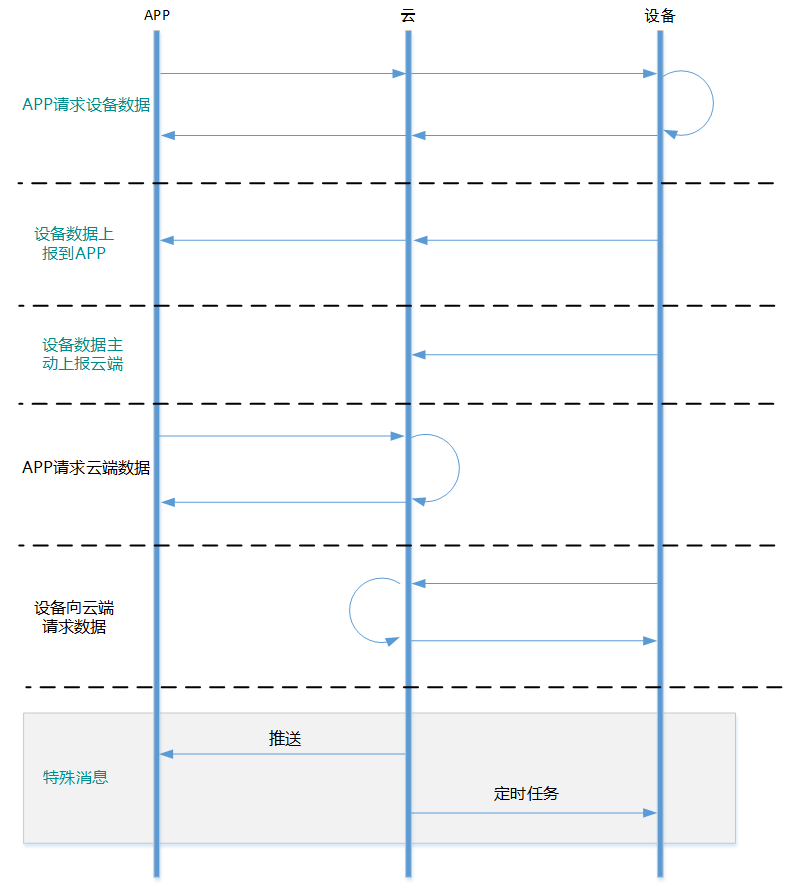
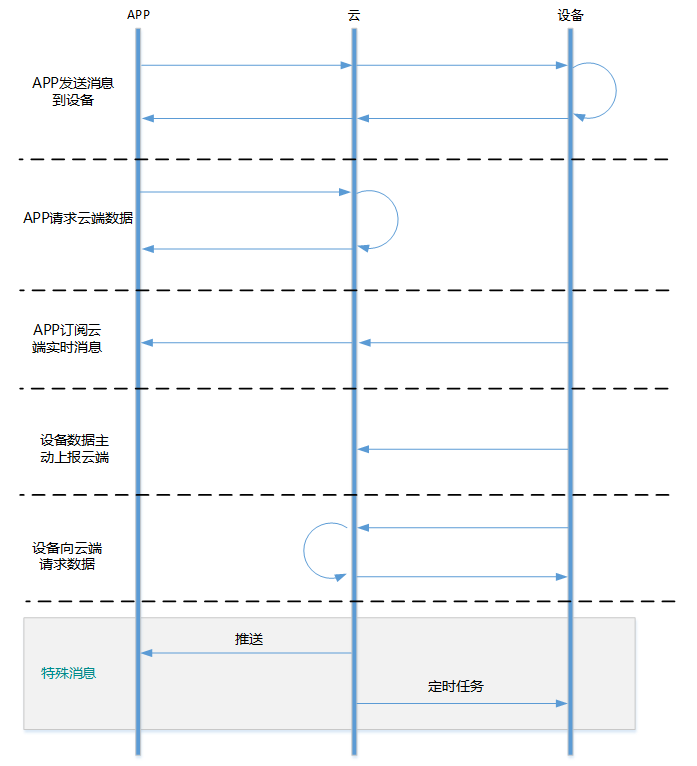
Deployed 1f48182 with MkDocs version: 0.14.0

diff --git a/introduction/index.html b/introduction/index.html
@@ -641,10 +641,15 @@ home模型的组层次如下图所示：</p>
 </table>
 <p>云端通信的通信类型见下图：</p>
 <p><img alt="cloudintaraction" src="../pic/introduction/introduction_cloudinteraction.png" /> </p>
-<p>对于前三个：APP请求设备数据、设备数据上报到APP和设备数据主动上报到云端进行存储，AbleCloud的通用服务已经实现该功能，移动应用开发人员只需要调用SDK就可以实现功能。对于APP请求设备数据，可以是有返回值的请求，也可以是纯控制指令，无返回值。</p>
-<p>对于APP向云端请求数据（无论是设备上报的历史数据还是厂商的其他应用数据）和设备向云端请求数据，都需要写云端自定义服务实现相应功能。</p>
-<p>对于特殊消息，请参考相关开发文档。</p>
-<p>需要单独说明的是，设备向云端发送的是TCP请求，如果要求云端响应设备的请求返回数据，实际云端是以控制命令的格式向设备下发数据。</p>
+<p>对于移动端，过云端的通信有三种：</p>
+<p>1、发送消息到设备</p>
+<p>将指令直接通过云端发送到设备。如果不需要存储，直接调用SDK接口即可实现。如果需要存储，需要开发相关的存储服务。</p>
+<p>2、发送消息到服务</p>
+<p>云端需要写云端自定义服务处理客户端发来的请求。</p>
+<p>3、订阅云端实时消息</p>
+<p>当app打开时，可以订阅设备实时上报的消息。这时候，不需要app刷新，设备端有新的数据或者状态变化的时候，app上对应的页面的数据或者状态就会刷新。</p>
+<p>需要单独说明的是，设备向云端发送的是TCP请求，如果要求云端响应设备的请求返回数据，实际云端是以控制命令的格式向设备下发数据。
+对于推送和定时任务，请参考定时任务文档。</p>
 <h2 id="_23">局域网通信</h2>
 <p>现在互联网非常普及，几乎每家都开通了宽带，家里的无线路由普及程度也很高。但是任何系统、设备，都可能出现异常情况，比如宽带营运商链路故障，路由器故障，云端服务故障等都可能导致家里的wifi无法访问internet。出现这种情况时，我们还需要继续控制、访问家里的智能设备，否则设备很可能就成为了砖头，比如晚上睡觉想关灯，但是智能灯始终收不到关灯消息。
 为此，ablecloud提供了<em>本地设备发现及访问</em>功能，也就是我们通常说的<em>设备直连</em>功能.</p>
